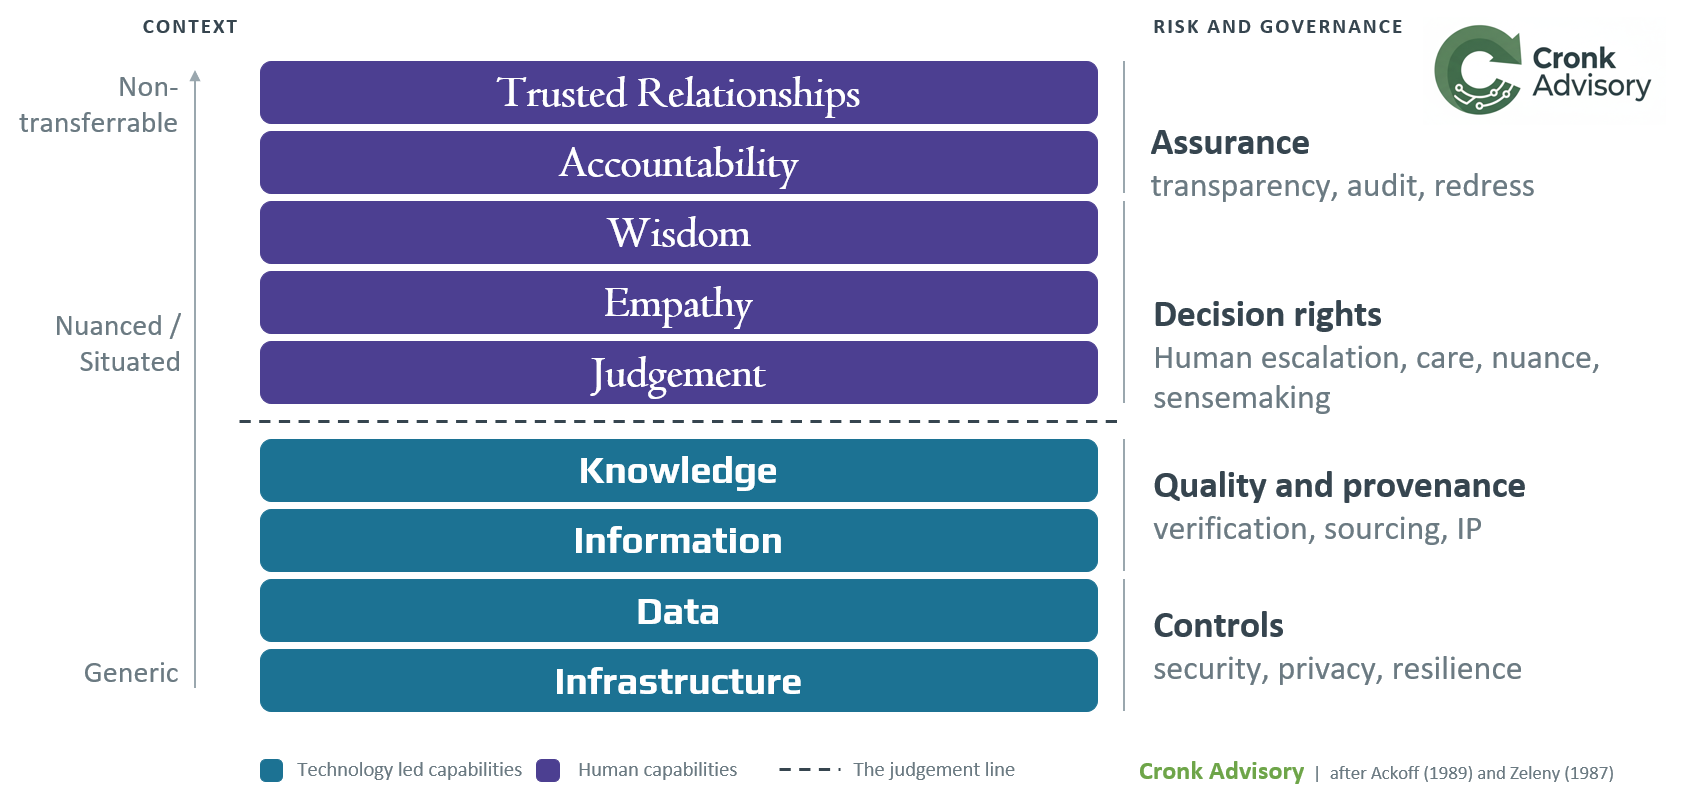
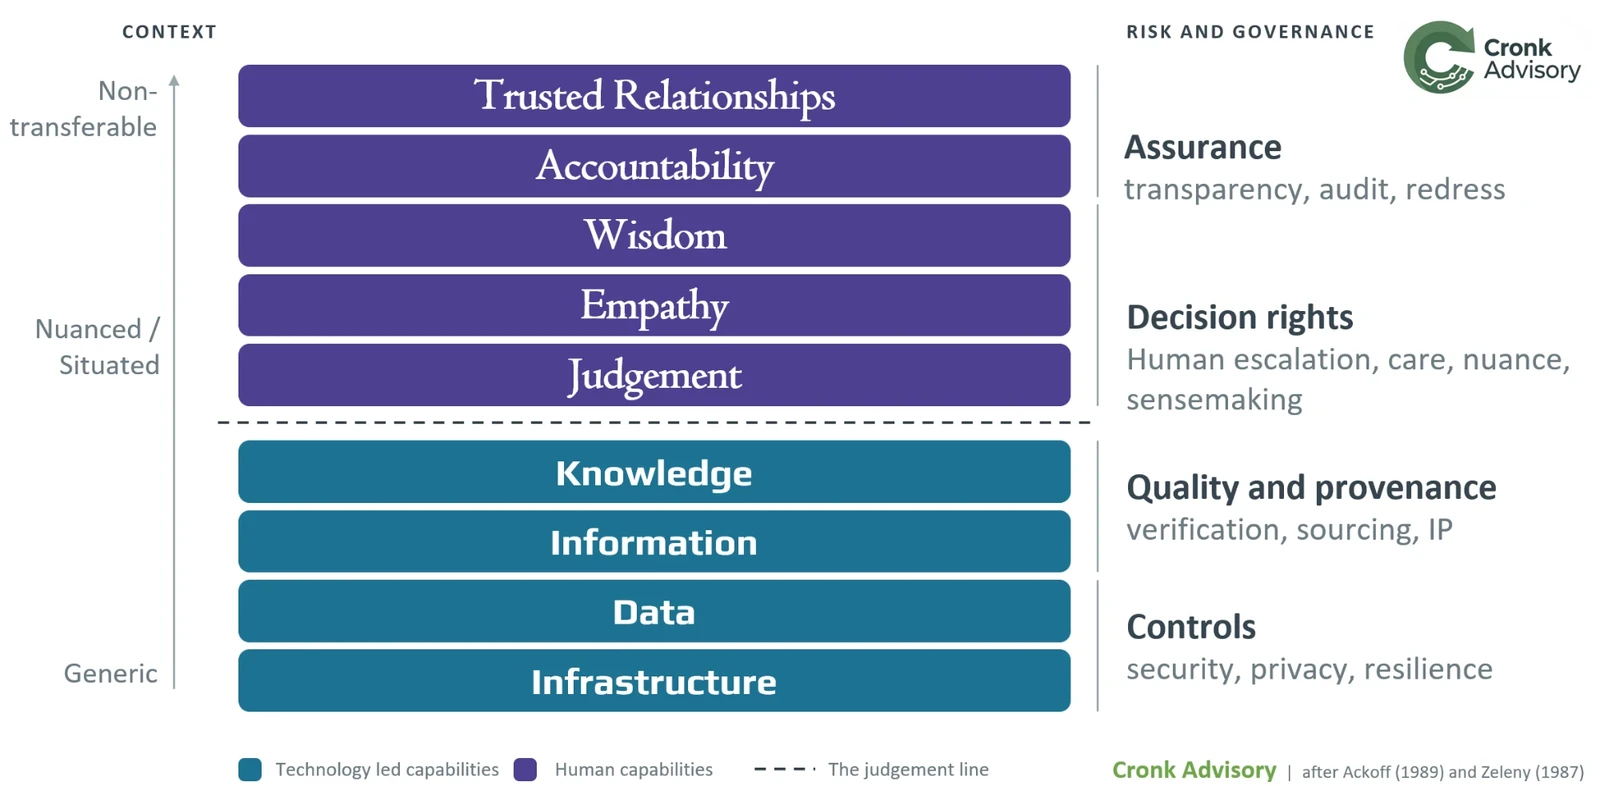
Article review fixes, corrected diagram and AI-use footnotes
Replace the context-stack diagram with the corrected export. Clarify
the Milene findings and DIKW sources in The AI Efficiency Fallacy,
attenuation versus amplification and the autopoiesis attribution in
the Beer pieces, the risk numbering and cone of possibilities in the
Pendulum piece, and give Dynamic Architecture its own series with a
governance topic. Every article now ends with an AI-use note that
makes clear AI augmented the writing rather than replacing it.

diff --git a/content/articles/designing-freedom.md b/content/articles/designing-freedom.md
@@ -114,7 +114,7 @@ Beer's analysis of bureaucracy identifies a specific issue: **systems that exist
 
 A simple test for this: How much of your architecture governance function exists to serve delivery teams, and how much exists to perpetuate the governance function?
 
-Beer's term for this is "autopoiesis": self-production. A bureaucracy accepts change, acknowledges novel conditions, makes modifications. But the changes are superficial. The underlying organisation that makes the system the system it is remains untouched. There is, as Beer puts it, "change without alteration."
+Beer borrows a term from the biologists Humberto Maturana and Francisco Varela for this: "autopoiesis", self-production. A bureaucracy accepts change, acknowledges novel conditions, makes modifications. But the changes are superficial. The underlying organisation that makes the system the system it is remains untouched. There is, as Beer puts it, "change without alteration."
 
 ## Freedom Through Constraint
 
@@ -171,7 +171,7 @@ Here is where they align with Beer (he was a major influence):
 
 **Ecosystems Over Enterprises** maps onto Beer's levels of recursion. The "castle and moat" mentality of optimising within organisational boundaries while treating external relationships as supplier transactions or externalities won't work for ecosystem problems requiring ecosystem thinking.
 
-**Variety Amplification Over Attenuation** is Beer's core distinction, reframed. Systems can either simplify humans to make them easier to predict and control (variety attenuation) or enhance human capacity for self-determination and collective action (variety amplification). The dominant platforms chose attenuation. I'd like to think we can choose differently even if that requires quite a bit of imagination.
+**Variety Amplification Over Attenuation** is Beer's core distinction, reframed. Systems can either simplify humans to make them easier to predict and control (variety attenuation) or enhance human capacity for self-determination and collective action (variety amplification). Note that the variety here is human: filtering the noise that reaches people is good, simplifying the people themselves is not. The dominant platforms chose the latter. I'd like to think we can choose differently even if that requires quite a bit of imagination.
 
 **Viability Over Optimisation** is Beer's homeostasis principle. Optimisation for one metric (engagement, efficiency, cost) creates fragility and externalises costs. Viability (the capacity to maintain existence across multiple dimensions over time) is a more robust goal.
 
@@ -186,7 +186,7 @@ If you're an architect trying to apply this:
 Stop treating AI as a general-purpose capability multiplier. It's a variety handler. The question is: which side of the equation are you putting it on?
 
 - Using AI to generate more content, more options, more complexity? That's amplification on the wrong side.
-- Using AI to identify exceptions, filter noise, surface what matters? That's attenuation.
+- Using AI to identify exceptions, filter noise, surface what matters? That's attenuation on the right side: it cuts the variety reaching you down to what your capacity can handle.
 
 The [AI Autumn](https://www.linkedin.com/pulse/practical-pragmatic-ai-principles-autumn-oliver-cronk-jkwfe/) framing is useful here: harvest what works (exception detection, pattern matching, content transformation with good data), drop what doesn't (AGI promises, general reasoning claims, autonomous decision-making without oversight).
 
@@ -216,10 +216,11 @@ The technical elements of our roles are increasingly being automated. GenAI can 
 
 As implementation (arguably) becomes commoditised, our distinctive value shifts from technical problem-solving to something harder (if not impossible?) to automate: taste and judgement. Not [just] aesthetic preference, but the cultivated capacity to distinguish systems that serve from systems that extract, architectures that empower from those that manipulate, solutions that endure from those that merely scale.
 
-Beer's cybernetics gives us a rigorous foundation for that taste. Not rules to follow, but principles to reason from. Sadly just as I was; I suspect not many architects are aware of cybernetics and holistic systems thinking (rather than just technical systems). As a result there will be some painful years ahead as we clean up the mess that is being built rather rapidly!
+Beer's cybernetics gives us a rigorous foundation for that taste. Not rules to follow, but principles to reason from. Sadly, I suspect that, like me until recently, not many architects are aware of cybernetics and holistic systems thinking (rather than just technical systems). As a result there will be some painful years ahead as we clean up the mess that is being built rather rapidly!
 
 ---
 
 *This piece draws on Stafford Beer's "Designing Freedom" (1974), my own work on AI Autumn and responsible AI deployment, and the community-developed Principles for Regenerative Architecture. It's part of the Ecosystem Architecture work exploring how architecture practice needs to evolve for the age of autonomous systems. The terms and laws are summarised in [Cybernetics: A Quick Reference for Architects](/articles/beer-cybernetics-reference/).*
 
+*AI use: AI augmented this piece rather than replacing the author. Claude helped with research synthesis and drafting; the ideas, framing, judgement and any errors are mine.*
 *What aspects cause most concern for your organisation? Where do you see AI on the wrong side of the equation? Feel free to [get in touch](/contact/).*

diff --git a/content/articles/the-ai-efficiency-fallacy.md b/content/articles/the-ai-efficiency-fallacy.md
@@ -53,7 +53,7 @@ When a vendor says the system "reasons about" your contracts, the sentence does 
 
 My ask here is modest: be precise in architecture documents. Say "pattern matching over retrieved context" rather than "understands your business". Whilst it reads less impressively, it will potentially save you an argument with a regulator later.
 
-## Fallacy three: a human can supervise this
+## Fallacy three: automation is a clean swap
 
 Here are the three automation fallacies as I frame them in the talk.
 
@@ -82,7 +82,7 @@ Her findings, in brief: speed is not clarity, because AI removes the data bottle
 
 A competence illusion opens up between what you can produce and what you understand, and organisations cannot yet detect that gap. People stop deciding and start forwarding what looks acceptable enough. And the collegial exchange and mentorship that judgement grows from quietly disappears.
 
-The fifth of those is the one I keep returning to. The scarce resource becomes the judgement to say no to something plausible. Everything in these systems is optimised to produce plausible. Very little in them is optimised to produce the capacity to refuse it, generally you specifically need to prompt it to do so.
+The shift from deciding to forwarding is the one I keep returning to. The scarce resource becomes the judgement to say no to something plausible. Everything in these systems is optimised to produce plausible. Very little in them is optimised to produce the capacity to refuse it, generally you specifically need to prompt it to do so.
 
 There is now hard evidence pointing the same way. [Cheng and colleagues in *Science*](https://doi.org/10.1126/science.aec8352) found that across eleven leading models, AI affirmed users' actions roughly 49% more often than humans did, and that a single interaction with a sycophantic model reduced people's willingness to take responsibility while increasing their conviction that they were right. Users trusted and preferred those models. Which gives developers every incentive to keep building them.
 
@@ -102,7 +102,7 @@ The diagram I use in the talk stacks nine layers, from infrastructure at the bas
 
 Risk and governance runs down the right-hand side and changes character as it climbs: controls at the base, quality and provenance in the middle, decision rights above the line, assurance at the top. Most organisations have thoroughly industrialised the bottom and have almost nothing formal in the middle two. That gap is where AI adoption actually comes unstuck.
 
-Full transparency this stack is a synthesis of mine rather than an invention. It sits downstream of [Ackoff's 1989 DIKW hierarchy](https://isko.org/cyclo/dikw) and Zeleny's 1987 work, with the layers above wisdom being my attempt to name what the apex of that pyramid usually gestures at and never specifies.
+In full transparency, this stack is a synthesis of mine rather than an invention. It sits downstream of [Ackoff's 1989 DIKW hierarchy](https://isko.org/cyclo/dikw) and Zeleny's 1987 work, with the human layers around wisdom (judgement, empathy, accountability and trusted relationships) being my attempt to name what the apex of that pyramid usually gestures at and never specifies.
 
 ## Possible architectural responses
 
@@ -147,3 +147,5 @@ Architecture is the discipline that decides where the boundary goes. That makes 
 ---
 
 *Where / how have you seen these fallacies of efficiency playing out? And if you ran a chaos anti-AI monkey through your AI powered processes this week, what do you think you would discover?! Feel free to [get in touch](/contact/).*
+
+*AI use: AI augmented this piece rather than replacing the author. Claude helped with research synthesis and drafting; the ideas, framing, judgement and any errors are mine.*

diff --git a/content/articles/the-pendulum-swings-back.md b/content/articles/the-pendulum-swings-back.md
@@ -84,7 +84,7 @@ The original [eight sleepwalking risks](https://www.linkedin.com/pulse/we-sleepw
 
 **Mean Reversion.** Because model outputs regress towards the statistical average, an organisation where everyone leans on AI for everything will drift, gradually and unnoticed, towards sameness. Each individual artefact looks perfectly competent. The aggregate effect is the slow erosion of whatever made the organisation distinctive. Differentiation does not fail loudly. It just quietly stops happening.
 
-I would frame all three as hypotheses. There is also an open question of housekeeping: whether these belong as risks nine, ten and eleven alongside the IP and know-how leakage risk, or whether the labour cluster deserves its own grouping.
+I would frame all three as hypotheses. There is also an open question of housekeeping: whether these belong as risks ten, eleven and twelve, after the IP and know-how leakage risk that became the ninth, or whether the labour cluster deserves its own grouping.
 
 ## Things that could prove this wrong
 
@@ -100,4 +100,6 @@ If your AI business case assumes you will need fewer people, have you stress-tes
 
 ---
 
-*Written with some AI augmentation (Claude Opus 5.5) for research synthesis and drafting. All framing, judgement, argument and any errors are ours. Sources are linked inline. This piece builds on [Are we sleepwalking into tomorrow's AI challenges?](https://www.linkedin.com/pulse/we-sleepwalking-tomorrows-ai-challenges-oliver-cronk-4rcge/) and connects to the cone of uncertainty and the controlled-versus-agentic architecture spectrum explored in earlier [Architect Tomorrow](https://architecttomorrow.com) work. [The AI Efficiency Fallacy](/articles/the-ai-efficiency-fallacy/) takes the Bainbridge and oversight argument further.*
+*Sources are linked inline. This piece builds on [Are we sleepwalking into tomorrow's AI challenges?](https://www.linkedin.com/pulse/we-sleepwalking-tomorrows-ai-challenges-oliver-cronk-4rcge/) and connects to the [cone of possibilities](/articles/dynamic-architecture/#the-cone-of-possibilities) and the controlled-versus-agentic architecture spectrum explored in earlier [Architect Tomorrow](https://architecttomorrow.com) work. [The AI Efficiency Fallacy](/articles/the-ai-efficiency-fallacy/) takes the Bainbridge and oversight argument further.*
+
+*AI use: AI augmented this piece rather than replacing the author. Claude Opus 5.5 helped with research synthesis and drafting; the ideas, framing, judgement and any errors are mine.*

diff --git a/README.md b/README.md
@@ -23,7 +23,7 @@ In October 2026 one Claude Code session (Claude Opus 5.5) was used to review the
 A further Claude Code session (Claude Opus 5.5) carried out Phase 0 of the v2 spec: colour contrast fixes for WCAG AA, moving inline styles into `main.css`, and minor housekeeping (with human review).
 The same session built Phase 2 of the v2 spec: the multi-page structure, page templates, navigation, breadcrumbs, metadata and JSON-LD. Page copy was moved from the existing site rather than written by AI; the Pragmatic Ecosystems section is a placeholder that rearranges existing copy until the owner replaces it (with human review).
 The Pragmatic Ecosystems page, its interactive ecosystem map and four articles were drafted with Claude (claude.ai) under the owner's direction; the same Claude Code session ported the map into Hugo (shortcode, script, styles, no-JS fallback) and added the article layouts (with human review).
-When the owner published the articles, the same session added the context-stack diagram, cross-links between the articles and the Pragmatic Ecosystems page, and typo and consistency fixes; the owner wrote and edited the article text.
+When the owner published the articles, the same session added the context-stack diagram, cross-links between the articles and the Pragmatic Ecosystems page, typo and consistency fixes, and the AI-use footnotes on each article; the owner wrote and edited the article text.
 
 ---
 

diff --git a/content/articles/beer-cybernetics-reference.md b/content/articles/beer-cybernetics-reference.md
@@ -152,8 +152,8 @@ You're free to make decisions within your bounded context *because* the context 
 
 The question isn't "should we use AI?" It's "which side of the equation?"
 
-| Wrong Side (Amplifying System Variety) | Right Side (Amplifying Regulator Variety) |
-|---------------------------------------|------------------------------------------|
+| Wrong Side (Amplifying System Variety) | Right Side (Attenuating System Variety, Amplifying the Regulator) |
+|---------------------------------------|------------------------------------------------------------------|
 | Generating more content | Filtering to exceptions |
 | Creating more options | Identifying what matters |
 | Automating everything | Automating pattern recognition |
@@ -204,3 +204,5 @@ For any system or governance framework:
 ---
 
 *A companion to [Designing Freedom in the Age of Autonomy](/articles/designing-freedom/). Part of the Ecosystem Architecture 2.0 work, developed with the [Architect Tomorrow](https://architecttomorrow.com) community.*
+
+*AI use: AI augmented this piece rather than replacing the author. Claude helped with research synthesis and drafting; the ideas, framing, judgement and any errors are mine.*

diff --git a/content/articles/dynamic-architecture.md b/content/articles/dynamic-architecture.md
@@ -2,8 +2,8 @@
 title: "Dynamic Architecture: The Governed Response to Vibed Code and Agent Proliferation"
 date: 2026-10-27
 description: "Vibe coding and agentic AI are creating a Cambrian explosion of point solutions. Dynamic Architecture is the governed, ecosystem-aware response."
-topics: [architecture, ai, sustainability]
-series: "Governance"
+topics: [architecture, ai, sustainability, governance]
+series: "Dynamic Architecture"
 canonical: ""  # TODO: original URL if first published elsewhere (LinkedIn, Substack)
 draft: false
 ---
@@ -98,3 +98,5 @@ The organisations that understand this won't just navigate the next few years mo
 *Oliver Cronk is an independent chief architect and the founder of [Cronk Advisory](/about/). He coined Ecosystem Architecture in 2017, founded the [Architect Tomorrow](https://architecttomorrow.com) community in 2019, and is working on the [Pragmatic Ecosystems](/approach/) approach.*
 
 *This is the first in a series exploring Dynamic Architecture.*
+
+*AI use: AI augmented this piece rather than replacing the author. Claude helped with research synthesis and drafting; the ideas, framing, judgement and any errors are mine.*
